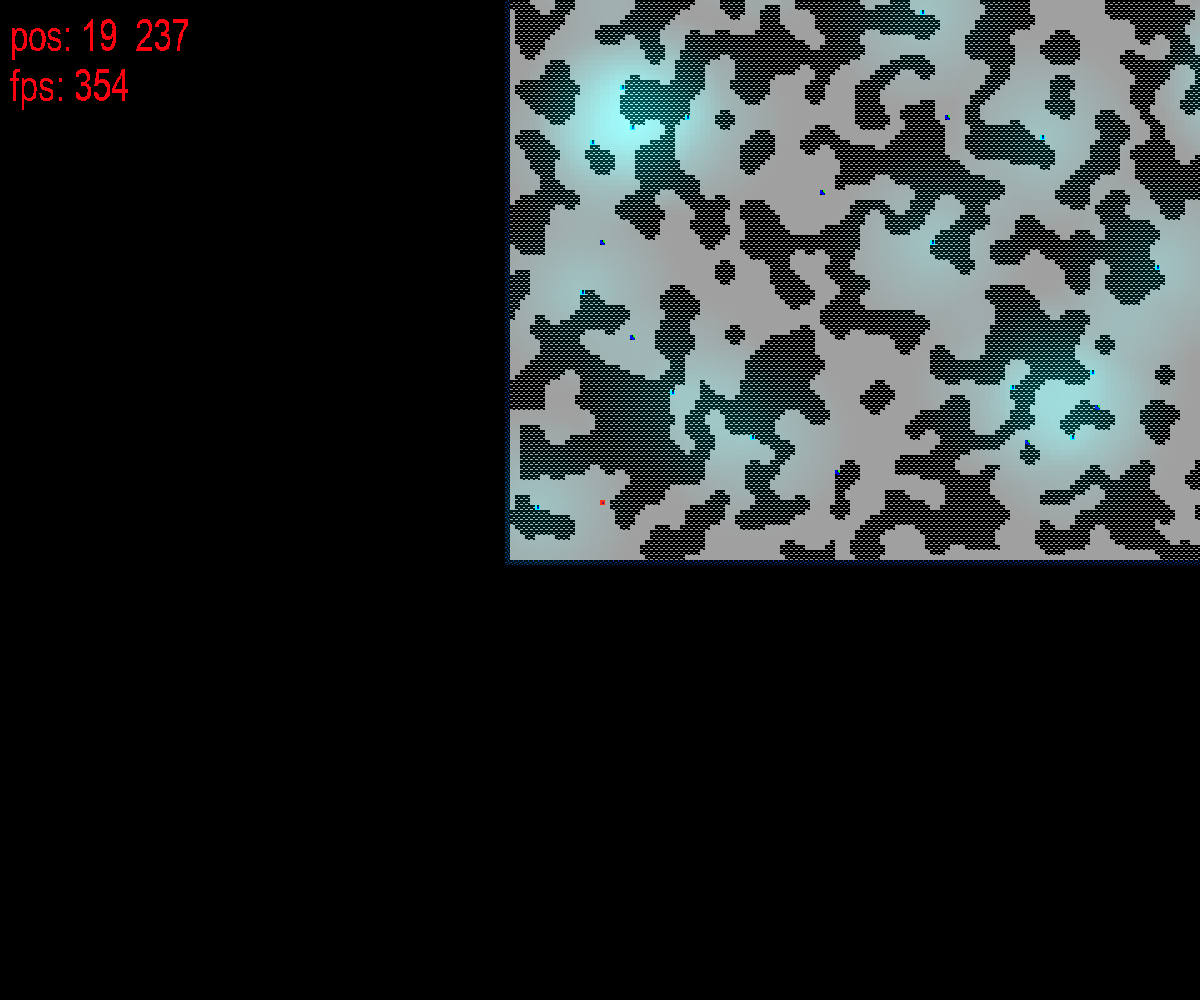
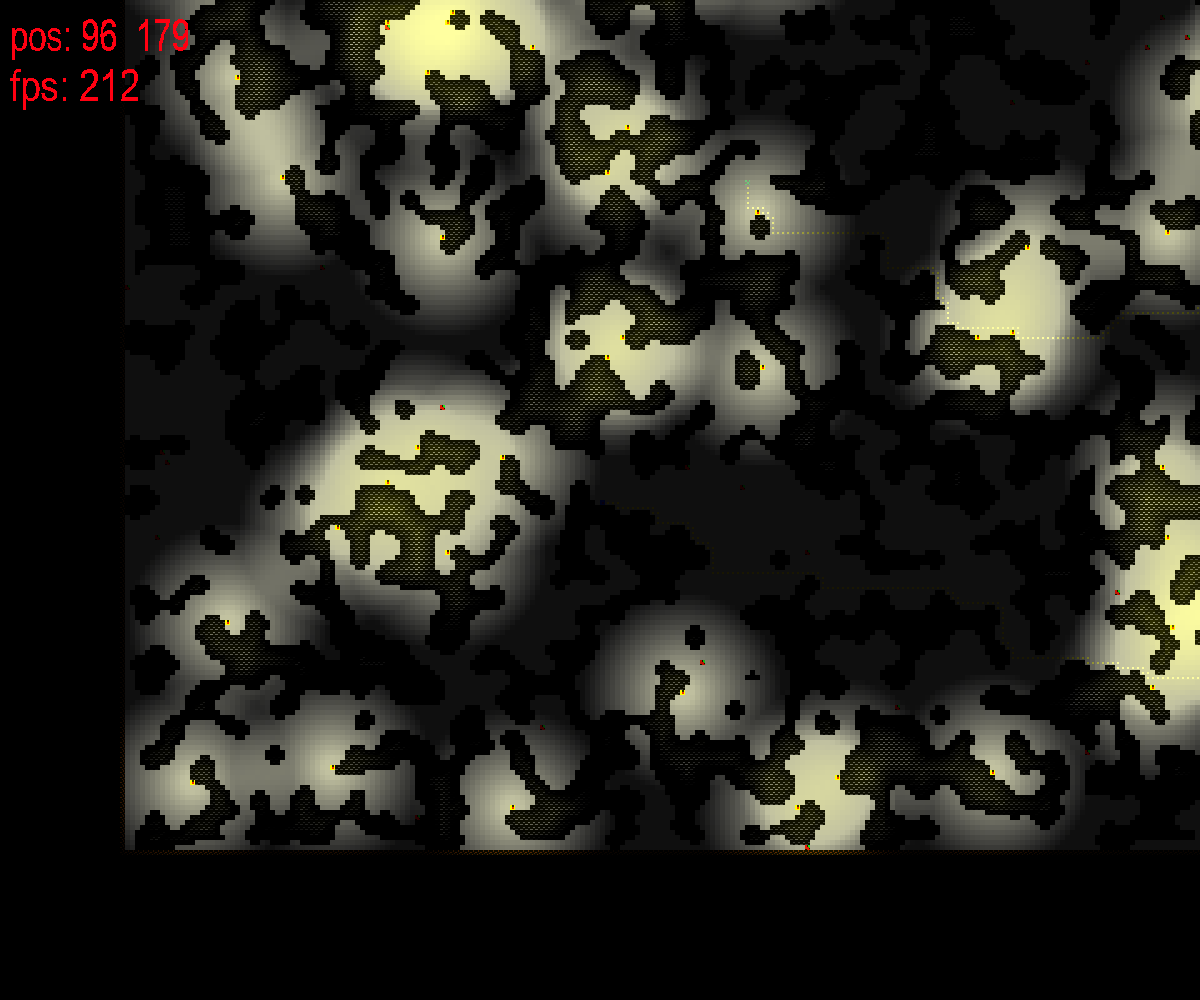
fix render light

diff --git a/src/Output.c b/src/Output.c
@@ -27,13 +27,13 @@ static void paint_object(int outside, Uint8* pixels, Map_t* map, int ix, int iy,
                          int pos, int obj_size_x, int obj_size_y, int chunk_x, int chunk_y);
 
 static void paint_path(Uint8* pixels, int ix, int iy, int obj_size_x, int obj_size_y,
-                       int chunk_x, int chunk_y);
+                       int chunk_x, int chunk_y, Uint8* light, int pos);
 
-static void paint_path_target(int is_exist, Uint8* pixels, int ix, int iy,
+static void paint_path_target(int is_exist, Uint8* pixels, int ix, int iy, Uint8* light, int pos,
                               int obj_size_x, int obj_size_y, int chunk_x, int chunk_y);
 
 static void paint_chunk(Uint8* pixels, int ix, int iy, int obj_size_x, int obj_size_y,
-                        int chunk_x, int chunk_y, int obj_ind);
+                        int chunk_x, int chunk_y, int obj_ind, Uint8* light, int pos);
 
 static int get_obj_index (int obj_sym);
 
@@ -132,11 +132,12 @@ void* render_block(void* block_render_info)
 
             if (!outside && map->path.path[pos] > 0 && map->path.path_target != pos &&
                 map->path.passed < map->path.path[pos])
-                paint_path(pixels, ix, iy, obj_size_x, obj_size_y, chunk_x, chunk_y);
+                paint_path(pixels, ix, iy, obj_size_x, obj_size_y, chunk_x, chunk_y, map->light, pos);
 
             if (!outside && map->path.path_target == pos &&
                 ((map->path.passed < map->path.count && map->path.path_exist) || !map->path.path_exist))
-                paint_path_target(map->path.path_exist, pixels, ix, iy, obj_size_x, obj_size_y, chunk_x, chunk_y);
+                paint_path_target(map->path.path_exist, pixels, ix, iy, map->light, pos,
+                                  obj_size_x, obj_size_y, chunk_x, chunk_y);
         }
     }
     return NULL;
@@ -171,24 +172,24 @@ static void paint_object(int outside, Uint8* pixels, Map_t* map, int ix, int iy,
             Uint8* pixel = &pixels[y_pix_window + x_pix_window];
             unsigned char* color = &OBJECTS[obj_ind].bytes_color[y_col + x_col];
 
-            pixel[0] = MIN(255, color[0] + map->col[pos_col + 0]);
-            pixel[1] = MIN(255, color[1] + map->col[pos_col + 1]);
-            pixel[2] = MIN(255, color[2] + map->col[pos_col + 2]);
+            float light_norm = (float)map->light[pos] / 255.f;
 
-            pixel[3] = map->light[pos];
+            pixel[0] = (Uint8)((float)(MIN(255, color[0] + map->col[pos_col + 0])) * light_norm);
+            pixel[1] = (Uint8)((float)(MIN(255, color[1] + map->col[pos_col + 1])) * light_norm);
+            pixel[2] = (Uint8)((float)(MIN(255, color[2] + map->col[pos_col + 2])) * light_norm);
         }
     }
 }
 
 static void paint_path(Uint8* pixels, int ix, int iy, int obj_size_x, int obj_size_y,
-                       int chunk_x, int chunk_y)
+                       int chunk_x, int chunk_y, Uint8* light, int pos)
 {
     int ind_obj_path = get_obj_index(SYM_OBJ_PATH);
 
-    paint_chunk(pixels, ix, iy, obj_size_x, obj_size_y, chunk_x, chunk_y, ind_obj_path);
+    paint_chunk(pixels, ix, iy, obj_size_x, obj_size_y, chunk_x, chunk_y, ind_obj_path, light, pos);
 }
 
-static void paint_path_target(int is_exist, Uint8* pixels, int ix, int iy,
+static void paint_path_target(int is_exist, Uint8* pixels, int ix, int iy, Uint8* light, int pos,
                               int obj_size_x, int obj_size_y, int chunk_x, int chunk_y)
 {
     int ind_obj_path_target = -1;
@@ -200,11 +201,12 @@ static void paint_path_target(int is_exist, Uint8* pixels, int ix, int iy,
         }
     }
 
-    paint_chunk(pixels, ix, iy, obj_size_x, obj_size_y, chunk_x, chunk_y, ind_obj_path_target);
+    paint_chunk(pixels, ix, iy, obj_size_x, obj_size_y, chunk_x, chunk_y,
+                ind_obj_path_target, light, pos);
 }
 
 static void paint_chunk(Uint8* pixels, int ix, int iy, int obj_size_x, int obj_size_y,
-                            int chunk_x, int chunk_y, int obj_ind)
+                            int chunk_x, int chunk_y, int obj_ind, Uint8* light, int pos)
 {
     float x_coef = (float)wbyte2pix / (float)obj_size_x;
     float y_coef = (float)hbyte2pix / (float)obj_size_y;
@@ -223,10 +225,12 @@ static void paint_chunk(Uint8* pixels, int ix, int iy, int obj_size_x, int obj_s
 
             if (color[0] == 255 && color[1] == 255 && color[2] == 255)
                 continue;
-    
-            pixel[0] = MIN(255, color[0] + pixel[0]);
-            pixel[1] = MIN(255, color[1] + pixel[1]);
-            pixel[2] = MIN(255, color[2] + pixel[2]);
+
+            float light_norm = (float)light[pos] / 255.f;
+                   
+            pixel[0] = (Uint8)((float)(MIN(255, color[0] + pixel[0])) * light_norm);
+            pixel[1] = (Uint8)((float)(MIN(255, color[1] + pixel[1])) * light_norm);
+            pixel[2] = (Uint8)((float)(MIN(255, color[2] + pixel[2])) * light_norm);
         }
     }
 }
@@ -283,5 +287,5 @@ void print_state_info(SDL_Renderer** renderer, TTF_Font* font, char* pos_string,
     snprintf(fps_string, MAX_SIZE_INFO_STR, "fps: %.f", *old_fps);
 
     win_print_text(pos_string, renderer, font, 10, 10, 180, 50);
-    win_print_text(fps_string, renderer, font, 10, 60, 120, 50);
+    win_print_text(fps_string, renderer, font, 10, 60, 130, 50);
 }

diff --git a/src/Window.c b/src/Window.c
@@ -19,11 +19,12 @@ ErrorCode window_prepare(SDL_Window** window, SDL_Texture** texture, SDL_Rendere
                                PIX_WIDTH, PIX_HEIGHT, SDL_WINDOW_SHOWN);
 
     *renderer = SDL_CreateRenderer(*window, -1, SDL_RENDERER_ACCELERATED);
-    SDL_SetRenderDrawColor (*renderer, 0, 0, 0, 0);
+    SDL_SetRenderDrawColor(*renderer, 0, 0, 0, 255);
+    SDL_SetTextureBlendMode(*texture, SDL_BLENDMODE_ADD);
     SDL_RenderClear(*renderer);
     SDL_RenderPresent(*renderer);
 
-    *texture = SDL_CreateTexture(*renderer, SDL_PIXELFORMAT_ARGB8888, SDL_TEXTUREACCESS_STREAMING,
+    *texture = SDL_CreateTexture(*renderer, SDL_PIXELFORMAT_RGBA32, SDL_TEXTUREACCESS_STREAMING,
                                  PIX_WIDTH, PIX_HEIGHT);
 
     *pixels = (Uint8*) calloc(sizeof(Uint8), PIX_WIDTH * PIX_HEIGHT * 4);
@@ -100,6 +101,9 @@ static void free_window_stuff(SDL_Window** window, SDL_Renderer** renderer, SDL_
     SDL_DestroyRenderer(*renderer);
     SDL_DestroyTexture(*texture);
     TTF_CloseFont(*font);
+
+    TTF_Quit();
+    SDL_Quit();
     
     free(pixels);
     free(pos_string);

diff --git a/src/Control.c b/src/Control.c
@@ -161,8 +161,6 @@ static ErrorCode callback_mouse_click(Map_t* map, PlayerSet_t* PlayerSet)
     double dx = (mouse_x < PIX_WIDTH  / 2) ? 1 - wbyte2pix : wbyte2pix - 1;
     double dy = (mouse_y < PIX_HEIGHT / 2) ? 1 - hbyte2pix : hbyte2pix - 1;
 
-    fprintf(stderr, "scale: %f\n", PlayerSet->scale);
-
     mouse_x = (int)((double)((double)((double)mouse_x - (double)PIX_WIDTH  / 2 + dx) / (double)wbyte2pix / (double)wscale_render) / (double)PlayerSet->scale);
     mouse_y = (int)((double)((double)((double)mouse_y - (double)PIX_HEIGHT / 2 + dy) / (double)hbyte2pix / (double)hscale_render) / (double)PlayerSet->scale);
     mouse_x = PlayerSet->px + mouse_x;

diff --git a/src/Config.h b/src/Config.h
@@ -14,9 +14,9 @@
 #define NEW_LIFE (int)5
 #define hscale_render (int)4
 #define wscale_render (int)4
-#define delay_dx_max (int)15
-#define delay_dy_max (int)15
-#define delay_path_count (int)12
+#define delay_dx_max (int)12
+#define delay_dy_max (int)12
+#define delay_path_count (int)8
 #define delay_info_count (int)150
 #define light_dist (int)20
 #define light_force (double)1.f
